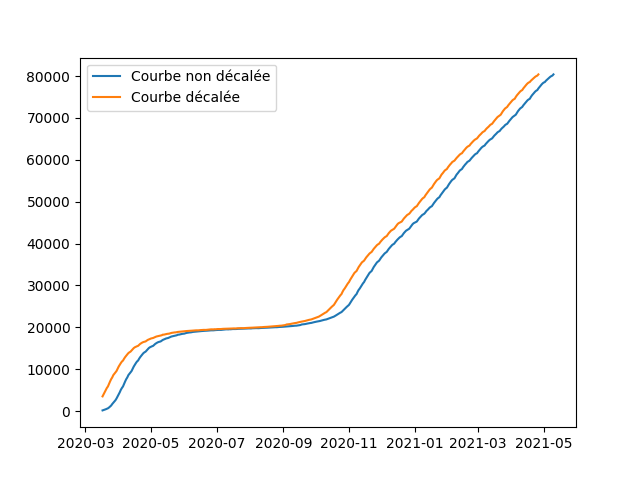
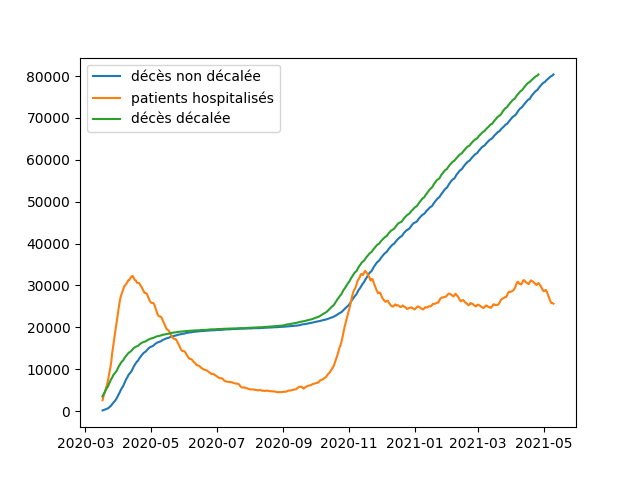
l

diff --git a/test random.py b/test random.py
@@ -43,10 +43,11 @@ print(covid["total_deces_hopital"]['2020-03-17':].head())
 
 plt.figure()
 
-plt.plot(covid.index,covid["total_deces_hopital"]['2020-03-17':],label="Courbe non décalée")
+plt.plot(covid.index,covid["total_deces_hopital"]['2020-03-17':],label="décès non décalée")
+plt.plot(covid.index,covid['patients_hospitalises']['2020-03-17':],label="patients hospitalisés")
 timeshift_day(covid["total_deces_hopital"],-7)
 print(covid["total_deces_hopital"]['2020-03-17':].head())
-plt.plot(covid.index[:-14],covid["total_deces_hopital"]['2020-03-24':],label="Courbe décalée")
+plt.plot(covid.index[:-14],covid["total_deces_hopital"]['2020-03-24':],label="décès décalée")
 plt.legend()
 
 plt.show()
